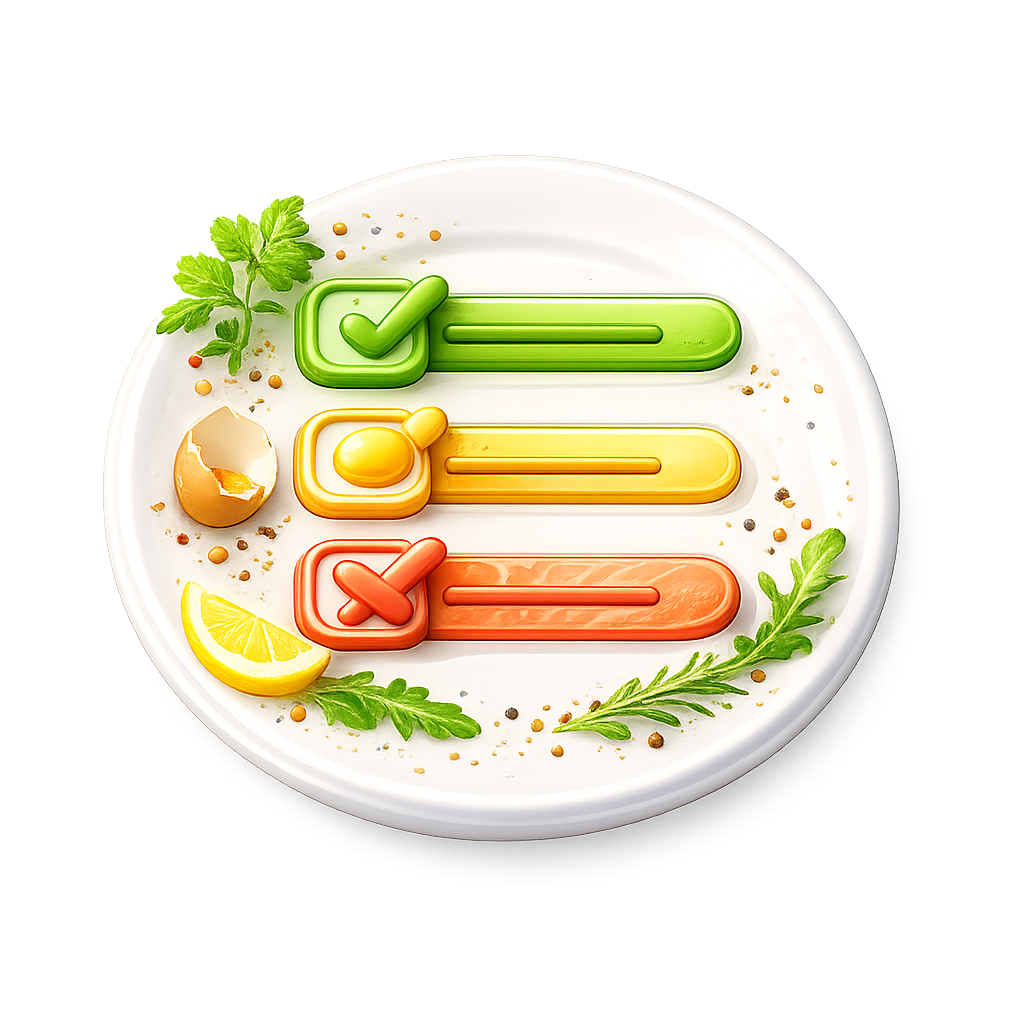
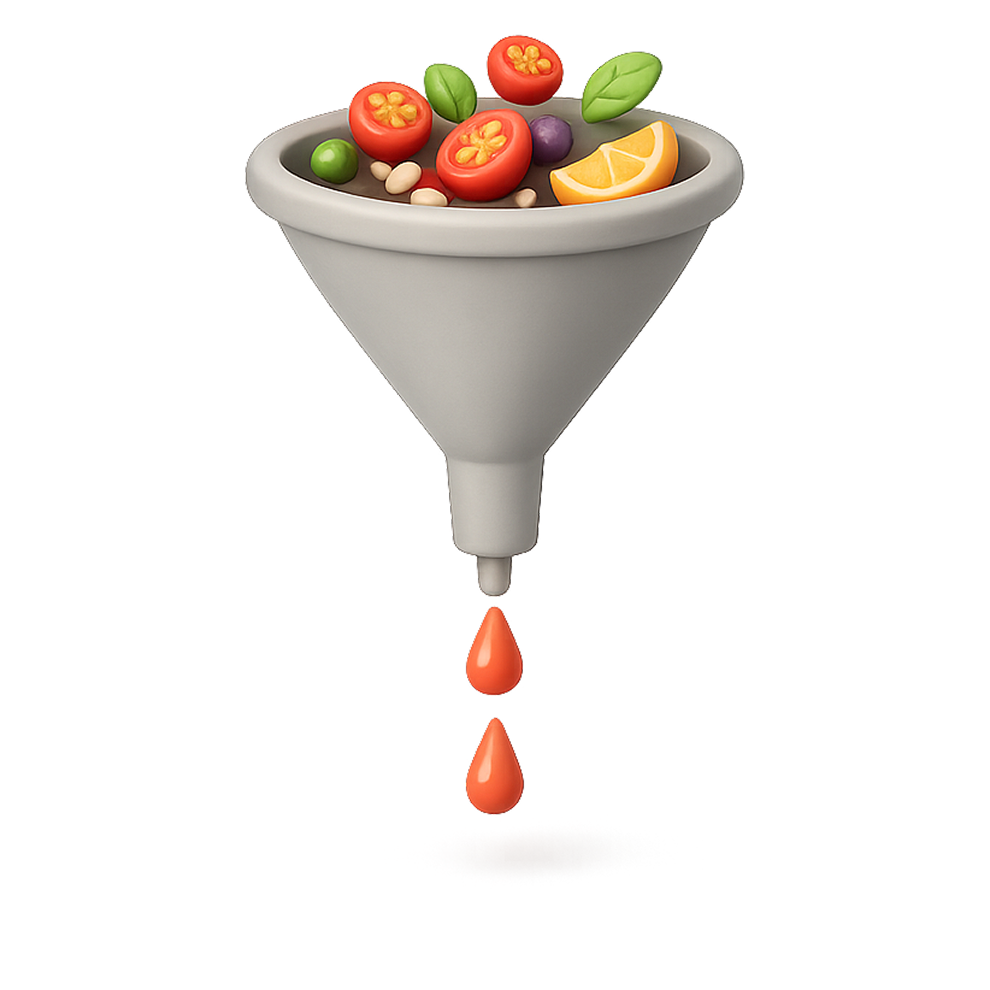
committing local changes

diff --git a/food_match/lib/core/widgets/food_match_notification_toast.dart b/food_match/lib/core/widgets/food_match_notification_toast.dart
@@ -35,18 +35,18 @@ class FoodMatchNotificationToast extends StatelessWidget {
       liveRegion: true,
       container: true,
       child: Container(
-        constraints: BoxConstraints(minHeight: hasMessage ? 84 : 72),
+        constraints: BoxConstraints(minHeight: hasMessage ? 74 : 62),
         padding: const EdgeInsets.symmetric(horizontal: 16, vertical: 12),
         decoration: BoxDecoration(
           color: colors.background,
-          borderRadius: BorderRadius.circular(20),
+          borderRadius: BorderRadius.circular(15),
           border: Border.all(color: colors.border),
         ),
         child: Row(
           children: <Widget>[
             Container(
-              width: 48,
-              height: 48,
+              width: 38,
+              height: 38,
               decoration: BoxDecoration(
                 color: colors.iconBackground,
                 shape: BoxShape.circle,

diff --git a/food_match/lib/core/utils/food_match_notifications.dart b/food_match/lib/core/utils/food_match_notifications.dart
@@ -55,8 +55,8 @@ class FoodMatchNotifications {
       FoodMatchNotificationType.success ||
       FoodMatchNotificationType.info => const Duration(seconds: 3),
       FoodMatchNotificationType.warning => const Duration(seconds: 4),
-      FoodMatchNotificationType.error => const Duration(seconds: 5),
-      FoodMatchNotificationType.destructive => const Duration(seconds: 5),
+      FoodMatchNotificationType.error => const Duration(seconds: 4),
+      FoodMatchNotificationType.destructive => const Duration(seconds: 4),
     };
   }
 }

diff --git a/food_match/lib/core/theme/notification_theme_colors.dart b/food_match/lib/core/theme/notification_theme_colors.dart
@@ -72,7 +72,7 @@ class AppNotificationThemeColors {
     warning: FoodMatchNotificationColors(
       background: Color(0xFF2E2208),
       border: Color(0xFF886B36),
-      icon: Color(0xFF703429),
+      icon: Color.fromARGB(255, 112, 88, 41),
       iconBackground: Color(0xFF6F5D3C),
       actionColor: Color(0xFFD8B56D),
       titleColor: Color(0xFFFFF4EE),
